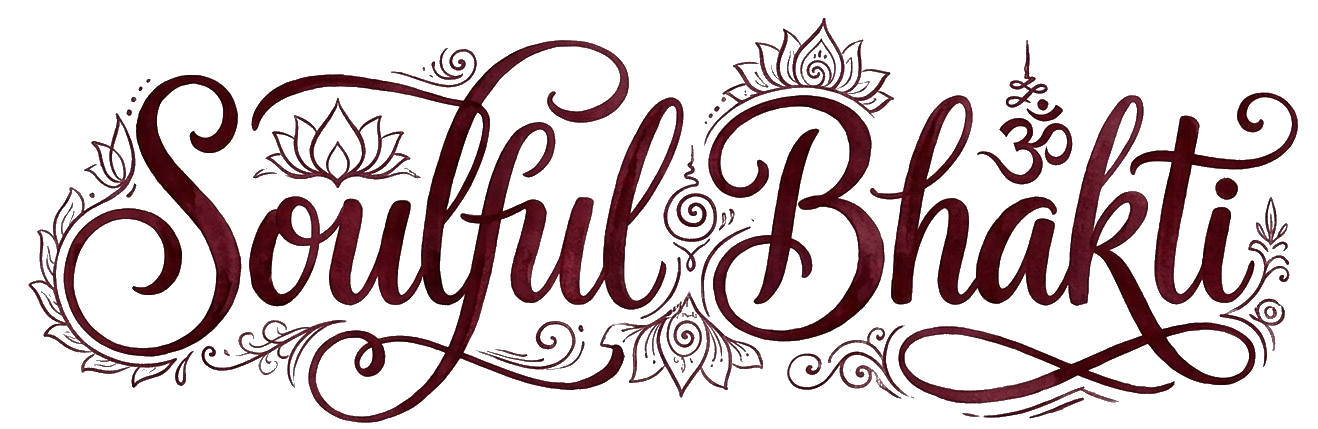
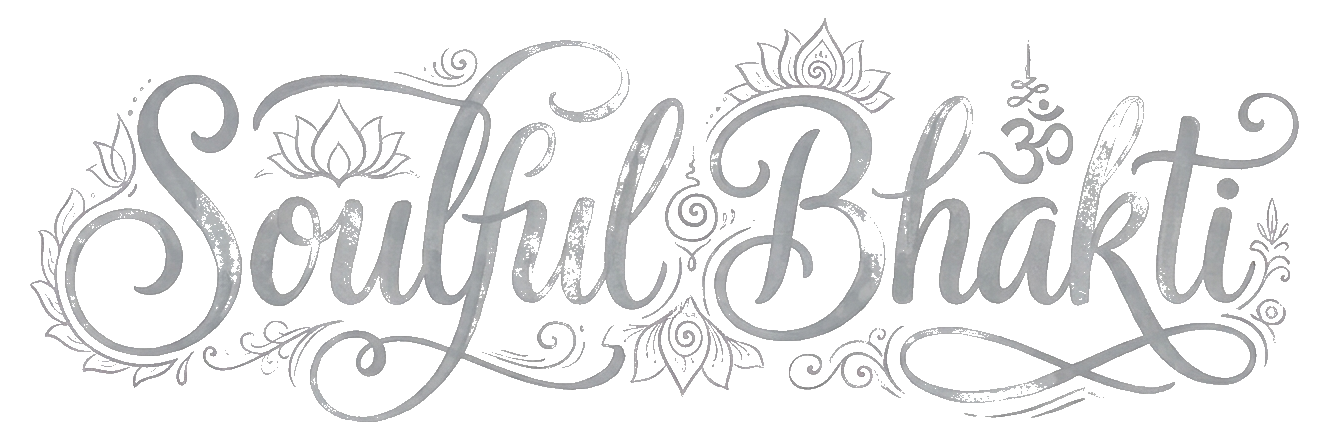
fix(home): render the wordmark at 3x and use the updated transparent PNG
The brand wordmark on the home header was 24dp tall, which read as too small.
It is now 72dp (3x) and the header row grew from kToolbarHeight (56dp) to 80dp
so that size is real - the FittedBox would otherwise have scaled a 72dp child
back down to fit 56dp and silently undone the enlargement.

The admin also replaced the wordmark PNG. Like the first export, the new file
was fully opaque (0% alpha across 22k+ samples), which would have rendered as a
solid box over the home wallpaper. The same border flood-fill + letter-hole
clearing pass was re-applied: 471,830 pixels made transparent, leaving the text
(now light gray in this export) with smooth anti-aliased edges.

Verified: flutter analyze clean on home.dart.

diff --git a/lib/pages/home/home.dart b/lib/pages/home/home.dart
@@ -293,9 +293,9 @@ class HomePage extends HookConsumerWidget {
 ///
 /// It replaces a `SliverAppBar` because the header had to become part of the
 /// wallpaper block: the artwork runs behind the header AND the carousel, so the
-/// header can no longer be a bar of its own with the wallpaper behind it. The
-/// geometry is the app bar's own — [material.kToolbarHeight] tall, contents
-/// flush to the leading edge.
+/// header can no longer be a bar of its own with the wallpaper behind it. It is
+/// 80dp tall (taller than `kToolbarHeight`'s 56) so the 72dp wordmark renders at
+/// its real size, contents flush to the leading edge.
 ///
 /// [color] and [shadows] come from the caller, which derives them from whether a
 /// wallpaper is configured: white with a shadow over artwork, the theme's
@@ -314,7 +314,11 @@ class _HomeHeaderRow extends StatelessWidget {
   @override
   Widget build(BuildContext context) {
     return SizedBox(
-      height: material.kToolbarHeight,
+      // The row holds the logo (32dp) and the 72dp wordmark vertically; this is
+      // tall enough for both plus a small breathing margin, instead of the
+      // previous kToolbarHeight (56) which would have FittedBox-scaled the 72dp
+      // wordmark back down and silently undone the 3x enlargement.
+      height: 80,
       child: Row(
         children: [
           const SizedBox(width: 16),
@@ -341,13 +345,14 @@ class _HomeHeaderRow extends StatelessWidget {
             child: FittedBox(
               fit: BoxFit.scaleDown,
               alignment: Alignment.centerLeft,
-              // The admin-uploaded brand wordmark PNG (transparent background,
-              // rendered at 24dp optical height). It replaces the typographic
-              // lockup; `BoxFit.contain` preserves the PNG's own aspect ratio
-              // and never distorts it.
+              // The admin-uploaded brand wordmark PNG (transparent background),
+              // rendered at 72dp optical height = 3x the previous 24dp. The
+              // header row grew to 80dp so this size is genuine and is not
+              // scaled back down by the FittedBox. `BoxFit.contain` preserves
+              // the PNG's own aspect ratio and never distorts it.
               child: Image.asset(
                 'assets/branding/soulful-bhakti-wordmark.png',
-                height: 24,
+                height: 72,
                 fit: BoxFit.contain,
                 // Placeholder so the FittedBox has dimensions before decode.
                 gaplessPlayback: true,
